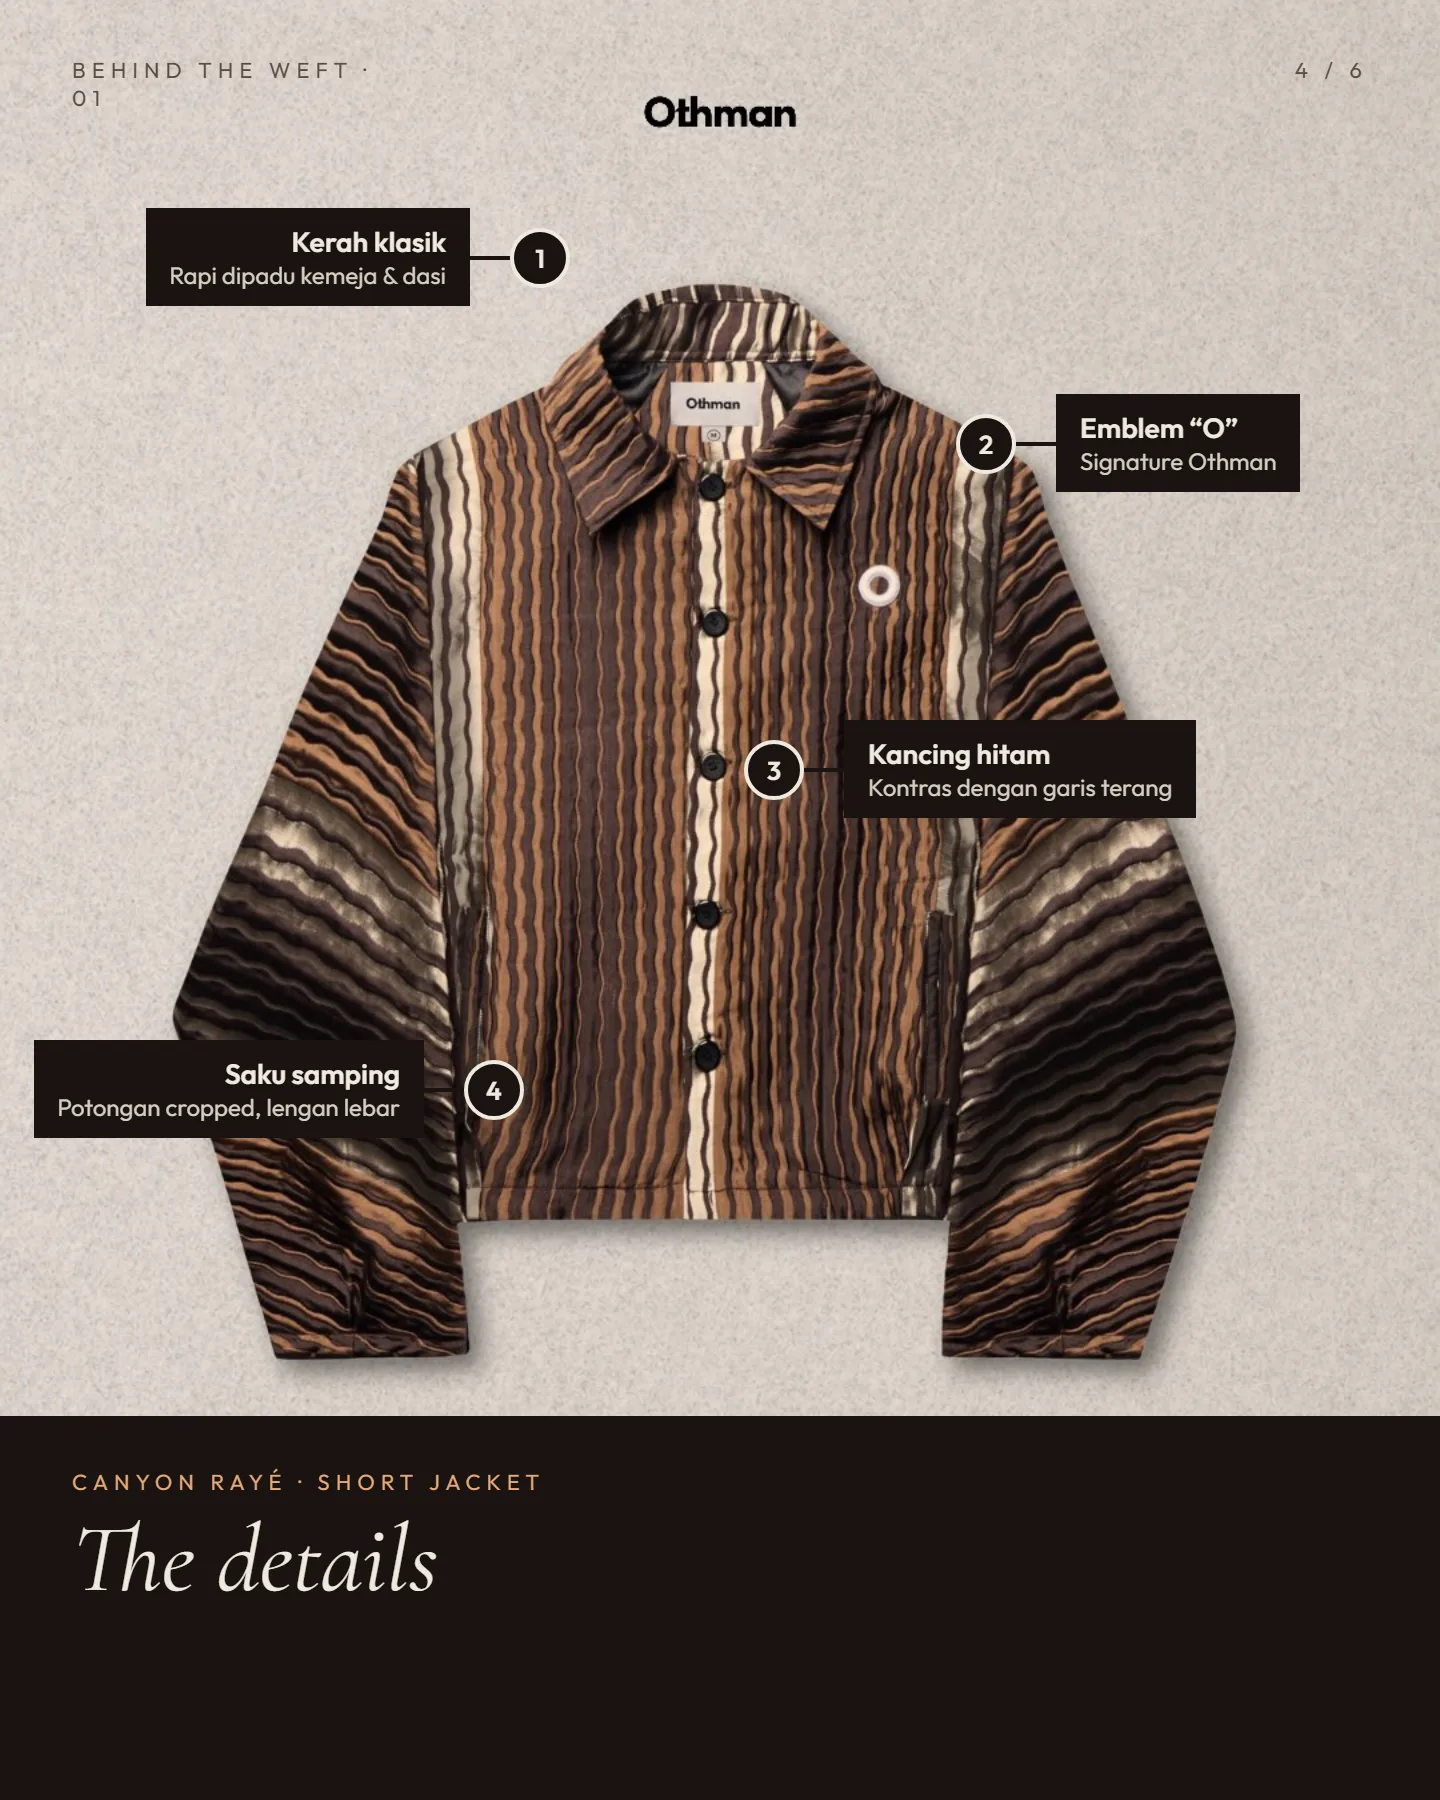
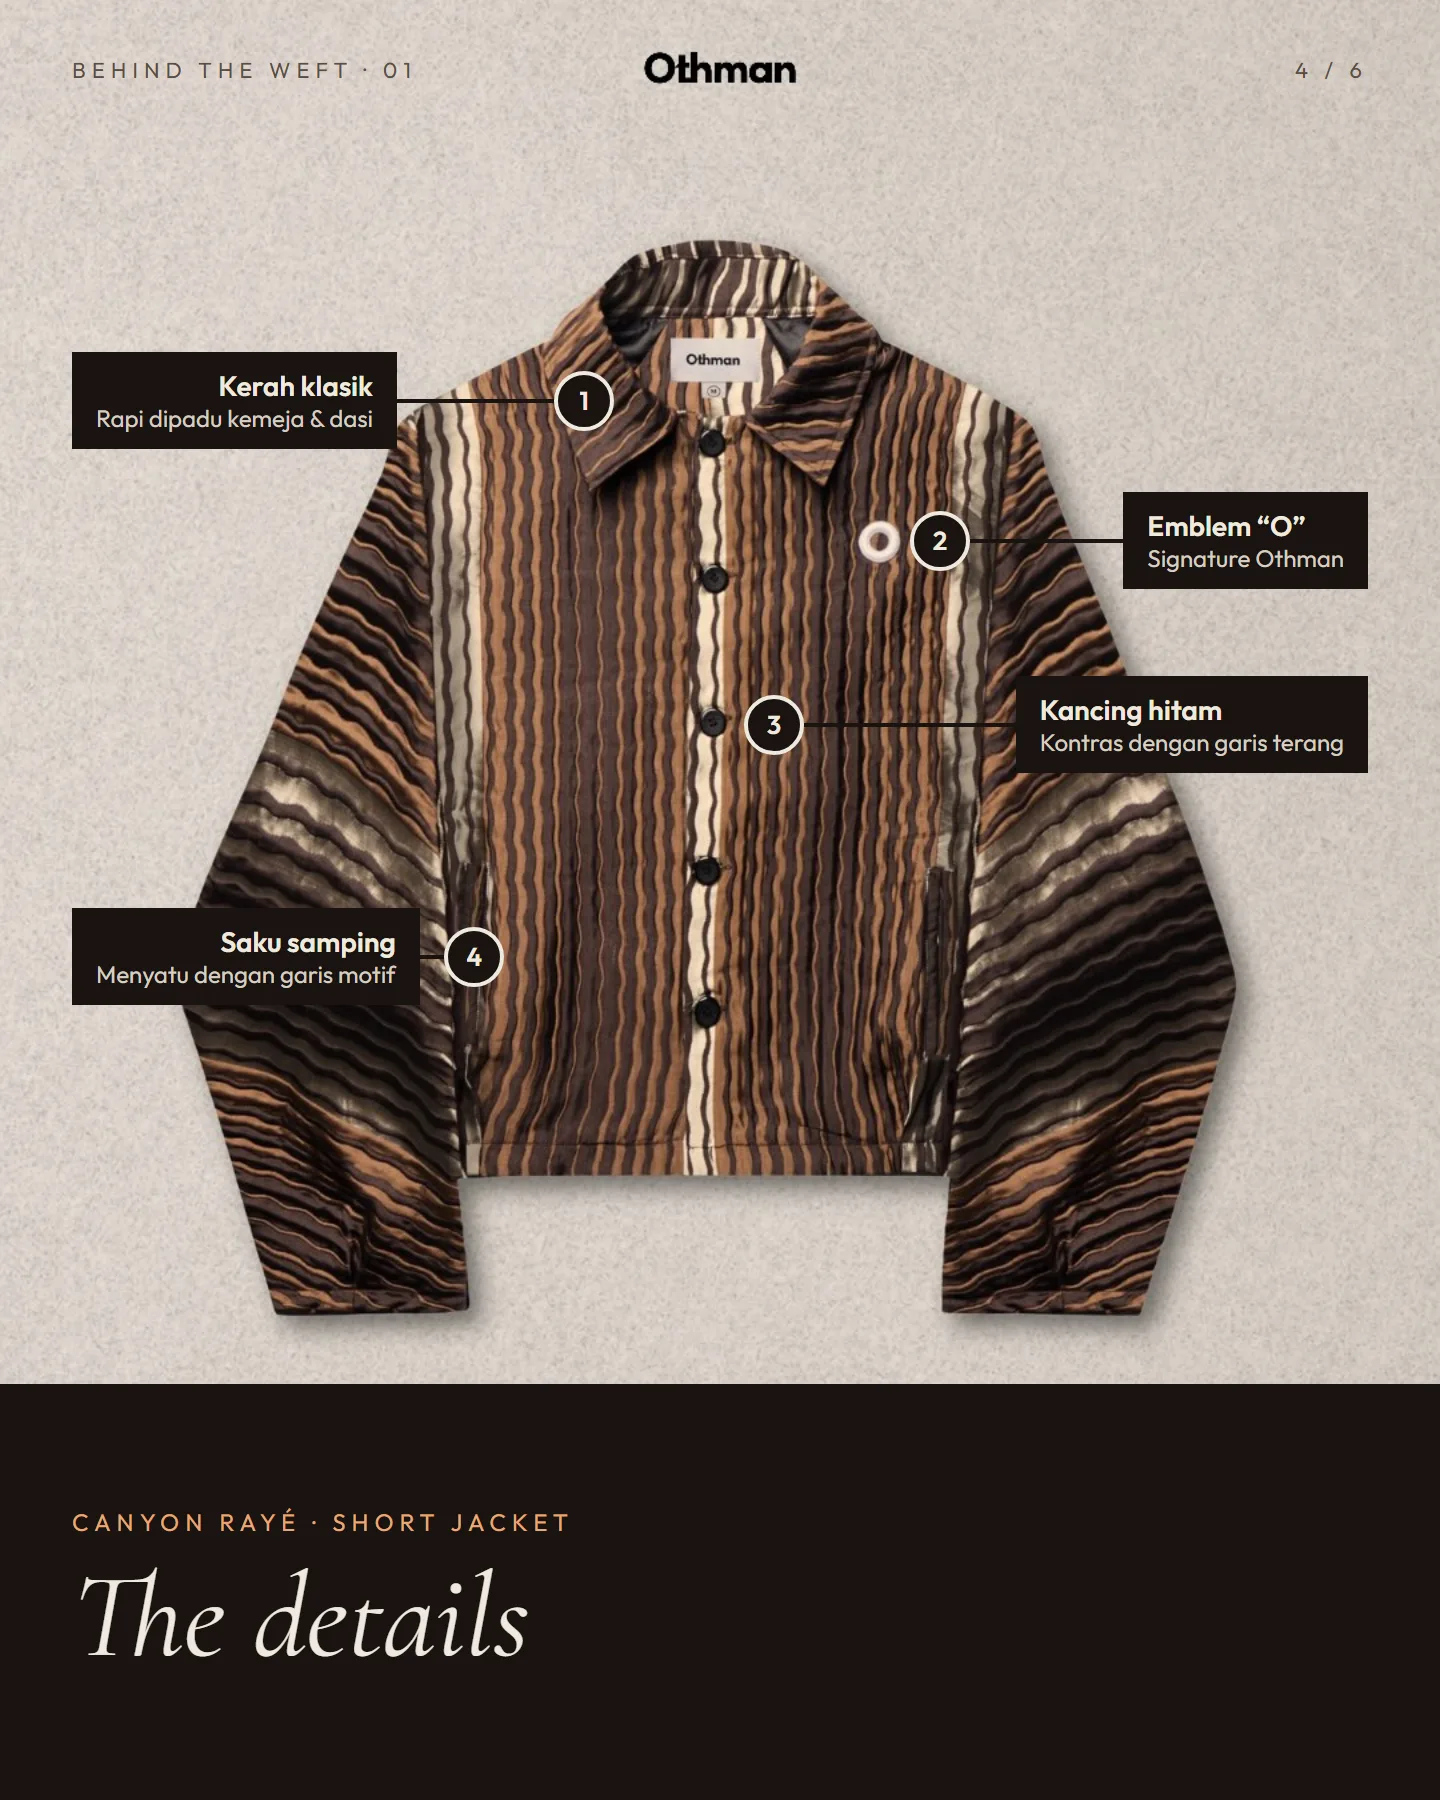
fix: rapikan slide 4 dan 6 carousel Othman
Penunjuk detail menempel ke bagian jaket yang benar, header sejajar, dan
jaket di slide 6 tampil utuh. Versi gambar dinaikkan karena cache setahun.

Changed region(s): [[0.0, 0.0933, 1.0, 0.9333], [0.4375, 0.0311, 0.5625, 0.0933]]

diff --git a/resources/views/portfolio/othman.blade.php b/resources/views/portfolio/othman.blade.php
@@ -1,6 +1,6 @@
 @php
     // [file, lebar, tinggi] sesuai ukuran file webp di public/assets/img/othman/
-    $img = fn (string $file) => asset('assets/img/othman/'.$file.'.webp');
+    $img = fn (string $file) => asset('assets/img/othman/'.$file.'.webp').'?v=2';
     $slides = [
         ['Cover', 'Slide 1, cover: model memakai Canyon Rayé Short Jacket dengan judul The Canyon Stripe'],
         ['Inspiration', 'Slide 2, inspirasi: tampilan dekat garis bergelombang jaket dengan penjelasan Canyon + Rayé'],
